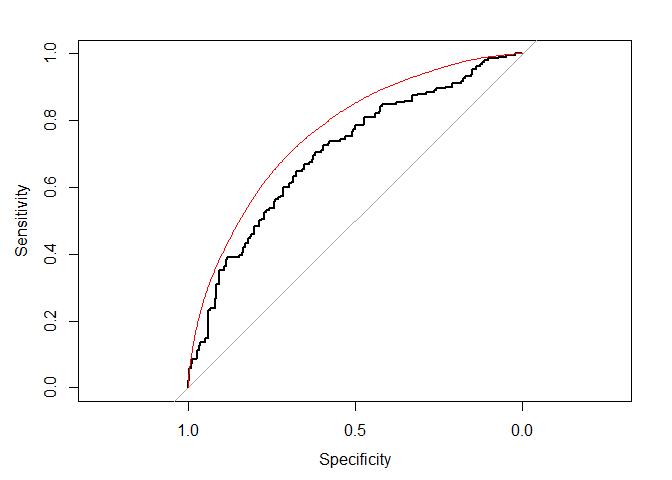
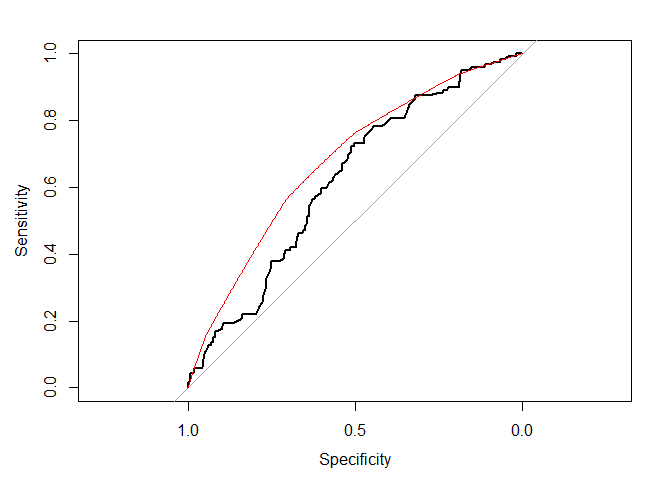
updated readme

diff --git a/README.md b/README.md
@@ -3,7 +3,7 @@ Tutorial for model-based ROC (mROC) analysis
 
 # predtools
 
-<!-- badges: start -->
+<!-- badges: starts -->
 
 [![R-CMD-check](https://github.com/resplab/predtools/workflows/R-CMD-check/badge.svg)](https://github.com/resplab/predtools/actions)
 <!-- badges: end -->
@@ -70,15 +70,15 @@ dev\_data has 500 rows. val\_data has 400 rows.
 
 Here are the first few rows of dev\_data:
 
-|        age |   severity | sex | comorbidity |   y |
-|-----------:|-----------:|----:|------------:|----:|
-|  0.5160477 |  0.2593806 |   0 |           1 |   1 |
-|  0.1572608 | -1.2302576 |   0 |           0 |   0 |
-|  1.2804923 |  1.8332095 |   1 |           1 |   1 |
-|  1.1347625 |  1.3272407 |   0 |           0 |   1 |
-|  0.8355657 |  0.3424236 |   0 |           0 |   1 |
-|  0.3522012 |  2.1135965 |   0 |           1 |   1 |
-| -0.5431004 | -2.9125308 |   0 |           1 |   0 |
+| age | severity | sex | comorbidity |   y |
+|----:|---------:|----:|------------:|----:|
+|  55 |        0 |   0 |           1 |   1 |
+|  52 |        1 |   0 |           0 |   0 |
+|  63 |        0 |   0 |           1 |   0 |
+|  61 |        1 |   1 |           1 |   1 |
+|  58 |        0 |   1 |           0 |   0 |
+|  54 |        1 |   0 |           0 |   1 |
+|  45 |        0 |   0 |           0 |   0 |
 
 We use the development data to fit a logistic regression model as our
 risk prediction model:
@@ -93,30 +93,30 @@ summary(reg)
 #> 
 #> Deviance Residuals: 
 #>     Min       1Q   Median       3Q      Max  
-#> -2.3801  -0.9824   0.4624   0.8912   2.2420  
+#> -1.2904  -0.8272  -0.6373   1.1570   2.1050  
 #> 
 #> Coefficients:
-#>             Estimate Std. Error z value Pr(>|z|)    
-#> (Intercept)  -0.9094     0.1752  -5.192 2.08e-07 ***
-#> sex           1.1167     0.2545   4.388 1.14e-05 ***
-#> age           0.5434     0.1136   4.785 1.71e-06 ***
-#> severity      0.4414     0.0599   7.368 1.73e-13 ***
-#> comorbidity   0.8953     0.2079   4.306 1.66e-05 ***
+#>              Estimate Std. Error z value Pr(>|z|)    
+#> (Intercept) -1.728929   0.565066  -3.060  0.00222 ** 
+#> sex          0.557178   0.223631   2.492  0.01272 *  
+#> age          0.005175   0.010654   0.486  0.62717    
+#> severity    -0.557335   0.227587  -2.449  0.01433 *  
+#> comorbidity  1.091936   0.209944   5.201 1.98e-07 ***
 #> ---
 #> Signif. codes:  0 '***' 0.001 '**' 0.01 '*' 0.05 '.' 0.1 ' ' 1
 #> 
 #> (Dispersion parameter for binomial family taken to be 1)
 #> 
-#>     Null deviance: 686.86  on 499  degrees of freedom
-#> Residual deviance: 564.21  on 495  degrees of freedom
-#> AIC: 574.21
+#>     Null deviance: 602.15  on 499  degrees of freedom
+#> Residual deviance: 560.41  on 495  degrees of freedom
+#> AIC: 570.41
 #> 
 #> Number of Fisher Scoring iterations: 4
 ```
 
 Given this, our risk prediction model can be written as:
 
-*l**o**g**i**t*(*p*) =  − 0.9094 + 1.1167 \* *s**e**x* + 0.5434 \* *a**g**e* + 0.4414 \* *s**e**v**e**r**i**t**y* + 0.8953 \* *c**o**m**o**r**b**i**d**i**t**y*.
+*l**o**g**i**t*(*p*) =  − 1.7289 + 0.5572 \* *s**e**x* + 0.0052 \* *a**g**e* − 0.5573 \* *s**e**v**e**r**i**t**y* + 1.0919 \* *c**o**m**o**r**b**i**d**i**t**y*.
 
 First, let’s compare the ROC and mROC in the development data
 
@@ -163,7 +163,7 @@ pred<-predict.glm(reg,newdata = val_data, type="response")
 
 summary(pred)
 #>    Min. 1st Qu.  Median    Mean 3rd Qu.    Max. 
-#> 0.02774 0.37566 0.57743 0.55688 0.73410 0.98611
+#>  0.1008  0.1853  0.2794  0.2891  0.4053  0.5714
 ```
 
 Using the package pROC, let’s draw the validation ROC curve
@@ -203,7 +203,7 @@ indicating that the model is not calibrated.
 res<-mROC_inference(val_data[,'y'],pred)
 
 res
-#> Mean calibration statistic (A):0.08187776(Obs<Pred) (p:0.00019)
-#> mROC/ROC equality statsitic (B):0.06583836 (p:0.00371)
-#> Unified statistic:28.50314 (df:4.012282,p:1.000175e-05)
+#> Mean calibration statistic (A):0.00835868(Obs>Pred) (p:0.7237)
+#> mROC/ROC equality statsitic (B):0.05910898 (p:0.04791)
+#> Unified statistic:6.778506 (df:4.025799,p:0.1501357)
 ```
